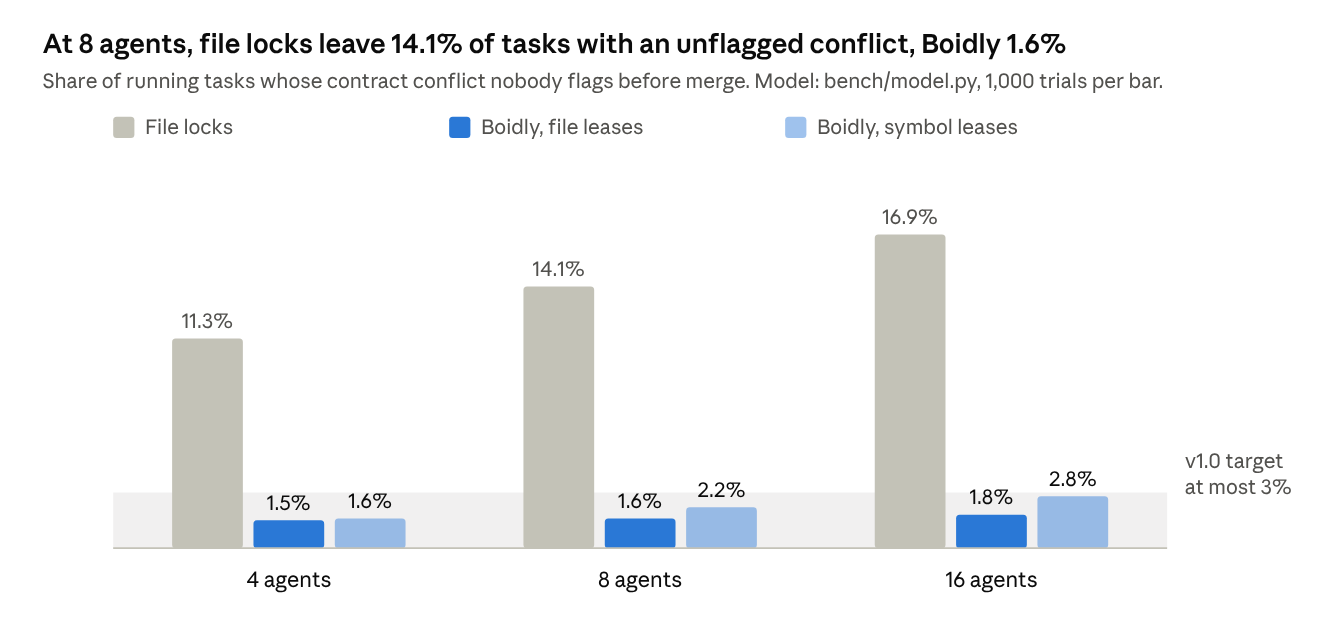
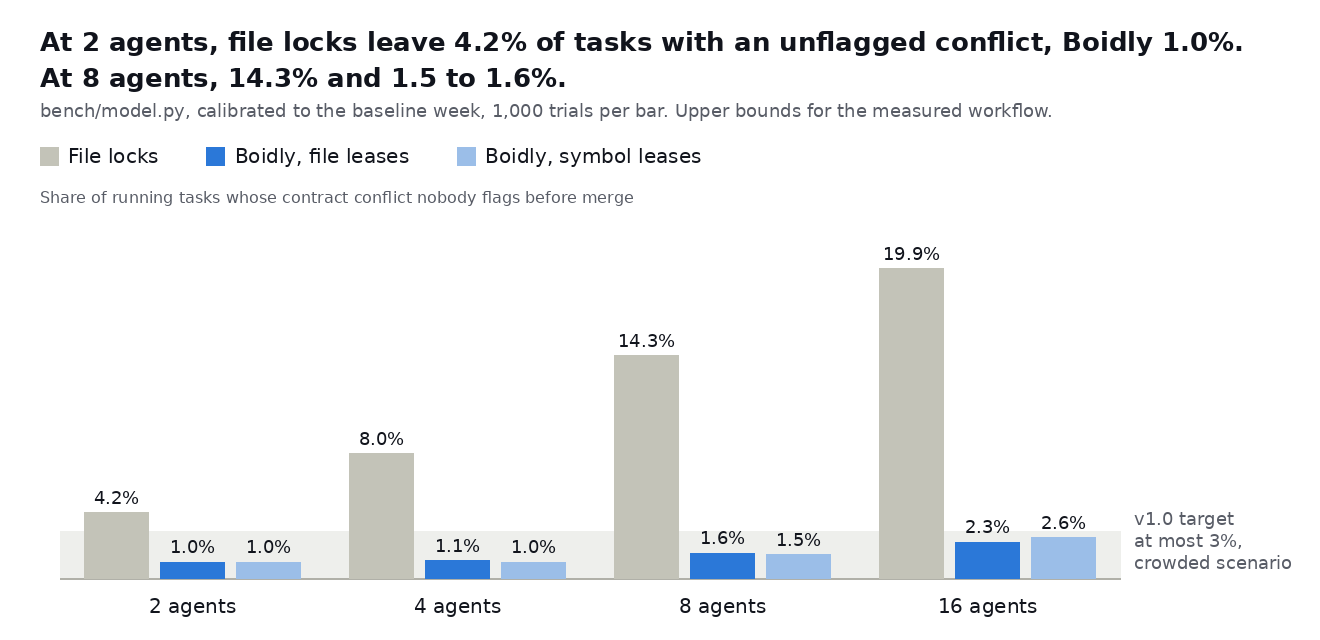
Republish the profile's numbers from the baseline week (#1)
The organization profile quotes three numbers from bench/model.py, and boidly/boidly#17 republished them from the M0 baseline week's measurements.

The conflict rows give 4.2% against 1.0% at the 2 agents the week ran and 14.3% against 1.5 to 1.6% at 8, all four as upper bounds. The cost row gives 0.41 to 0.59, lower than v0.3's range because the measured baseline is heavier while the compiled context keeps v0.3's size, and 0.43 to 0.61 if that context grows with the files a task edits. The conflicts chart is boidly/boidly's regenerated docs/img/conflicts-chart.png.

Changed region(s): [[0.0621, 0.3307, 0.9939, 0.962], [0.0311, 0.0301, 0.9318, 0.2706], [0.0311, 0.3006, 0.497, 0.3307]]

diff --git a/profile/README.md b/profile/README.md
@@ -30,15 +30,16 @@ Boidly builds open infrastructure that turns a crowd of AI coding agents into a 
 
 ## Why it matters
 
-The numbers below come from a model anyone can rerun, not from a product yet. A baseline week of real work replaces each assumption with a measurement before any feature ships.
+The numbers below come from a model anyone can rerun, not from a product yet. The model now takes today's workflow from a baseline week of real work, measured from its session logs. Boidly's own effects stay assumptions until they are measured.
 
 | What we model | Today | With Boidly |
 | --- | --- | --- |
-| Contract conflicts nobody flags before merge, 8 agents in busy code | 14.1% of running tasks with file locks | 1.6% |
-| Cost of a task, against today's | 1.00 | 0.50 to 0.67, with review included at the top of the range. 0.77 in the conservative case |
+| Contract conflicts nobody flags before merge, at the 2 agents of the baseline week | 4.2% of running tasks with file locks | 1.0% |
+| The same at 8 agents | 14.3% | 1.5 to 1.6%. All four rates, with file locks and with Boidly, are upper bounds, because the model still crowds work more than the baseline week did |
+| Cost of a task, against today's | 1.00 | 0.41 to 0.59, with review included at the top of the range. 0.64 to 0.68 in the conservative case. Lower than v0.3's range because the measured baseline carries far more context per call, while Boidly's compiled context keeps v0.3's size and Boidly's own effects are still assumed. 0.43 to 0.61 if that context grows with the files a task edits |
 | Disagreeing tasks needed to rank two agents, when the stronger one wins 70% of disagreements | 76 with a fixed test | 43 on average with a sequential test |
 
-<p align="center"><img src="assets/conflicts-chart.png" alt="At 8 agents, file locks leave 14.1% of tasks with an unflagged conflict, Boidly 1.6%" width="760"></p>
+<p align="center"><img src="assets/conflicts-chart.png" alt="Unflagged contract conflicts in the model calibrated to the baseline week. At 2 agents, file locks leave 4.2% of tasks and Boidly 1.0%. At 8 agents, 14.3% and 1.5 to 1.6%. Upper bounds for the measured workflow" width="760"></p>
 
 ## How it works
 
